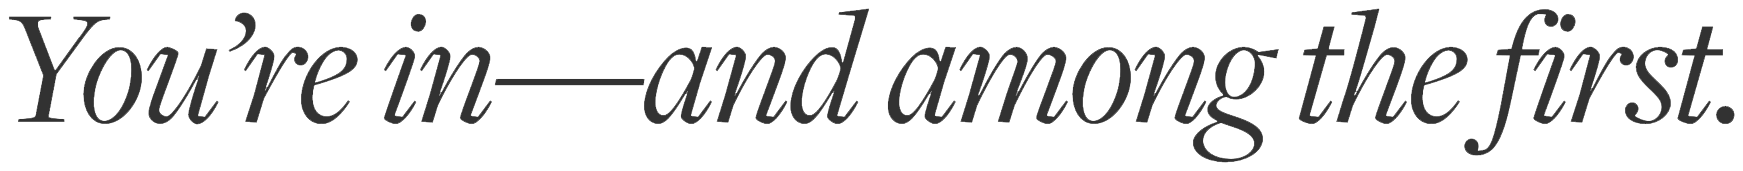
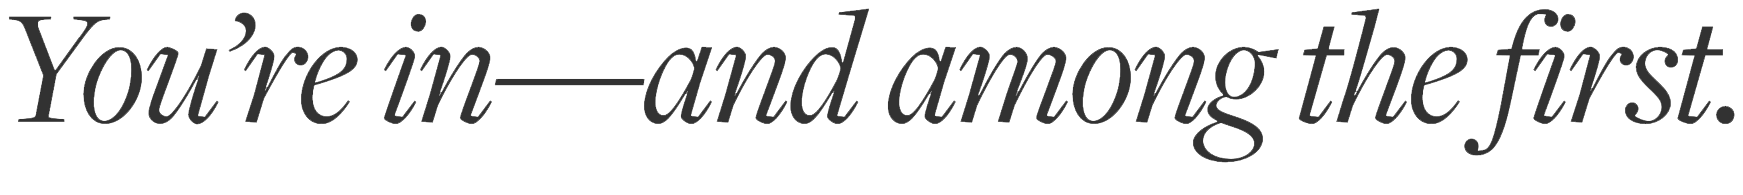
fix(marketing): welcome email CTA + photo credit + descender breathing
- CTA copy: "Sign in to Credenza" → "Join Credenza" since recipients are
  waitlist invitees who haven't created accounts yet.
- Center the photo credit ("Photograph © Carmel Brantley · design by
  Ellen Kavanaugh Interiors") under the card.
- Re-crop italic headline PNG with 32px bottom pad (was 8px) so the "g"
  descender swash in "among" has visual breathing room when scaled
  down 4× in email.

diff --git a/emails/welcome-designer-access-open.html b/emails/welcome-designer-access-open.html
@@ -627,7 +627,7 @@
                                 text-decoration: none;
                                 font-weight: 400;
                               "
-                              >Sign in to Credenza</a
+                              >Join Credenza</a
                             >
                           </td>
                         </tr>
@@ -638,10 +638,11 @@
               </td>
             </tr>
 
-            <!-- Photo credit for the slice at top — small, gray, sentence case -->
+            <!-- Photo credit for the slice at top — small, gray, sentence case, centered -->
             <tr>
               <td
                 class="pad"
+                align="center"
                 style="
                   padding: 56px 56px 0 56px;
                   font-family: 'Inter', -apple-system, BlinkMacSystemFont,
@@ -649,6 +650,7 @@
                   font-size: 9px;
                   letter-spacing: 0;
                   color: #9e9e96;
+                  text-align: center;
                 "
               >
                 Photograph © Carmel Brantley · design by Ellen Kavanaugh
